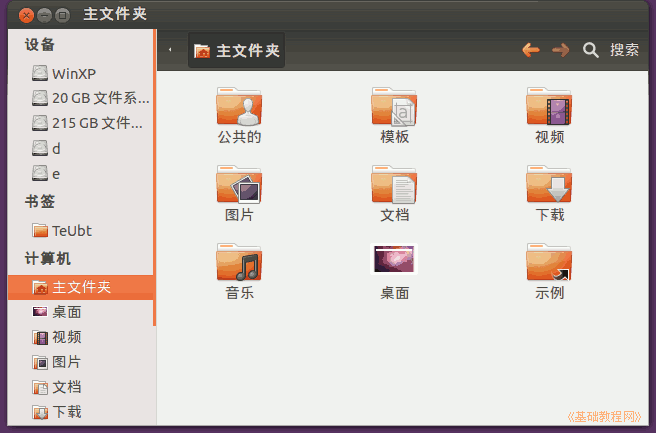
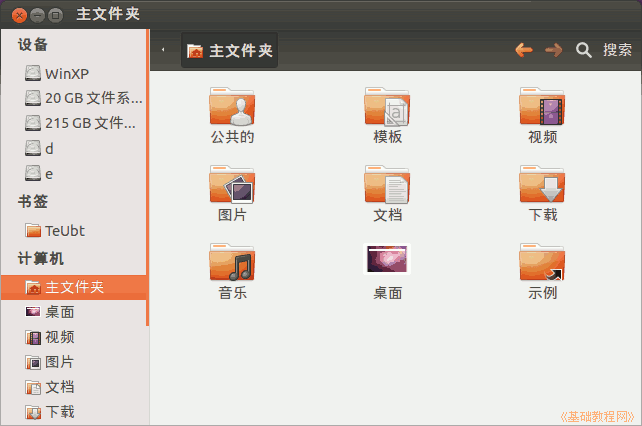
2012年 06月 15日 星期五 11:01:41 CST

diff --git a/linux/TeUbt/lesson30/lesson30.html b/linux/TeUbt/lesson30/lesson30.html
@@ -1,0 +1,95 @@
+<!DOCTYPE html PUBLIC "-//W3C//DTD XHTML 1.0 Transitional//EN" "http://www.w3.org/TR/xhtml1/DTD/xhtml1-transitional.dtd">
+<html dir="ltr" xmlns="http://www.w3.org/1999/xhtml" lang="zh-CN"><head>
+
+
+
+
+  <meta content="text/html; charset=UTF-8" http-equiv="content-type" />
+  <meta name="author" content="TeliuTe" />
+
+  <meta name="Copyright" content="TeliuTe,基础教程网" />
+  <meta name="description" content="TeliuTe系列教程之Ubuntu基础入门教程" />
+  <meta name="keywords" content="TeliuTe,Ubuntu,教程,基础,指南,入门" />
+
+  <link rel="stylesheet" href="../css/css.css" type="text/css" />
+  <link rel="Shortcut  Icon" href="../css/qcqy.ico" /><title>Ubuntu指南|文件管理器</title></head><body style="direction: ltr;">
+<p class="title">Ubuntu 入门操作指南</p>
+<p class="green">作者：TeliuTe　来源：基础教程网</p>
+<span class="tblue">三十、文件管理器</span>　<a href="../index.html">返回目录</a>　<a href="../lesson31/lesson31.html">下一课</a>
+<p>　文件管理器也叫文件浏览器，可以管理本地或网络中的文件和文件夹；</p>
+<p class="tblue">　1、文件管理器</p>
+<p>　1）点击主按钮，在搜索中输入nautilus <img src="images/a1icon.jpg" alt="a1icon.jpg" />，打开程序，或者依次点“主按钮、所有程序、过滤结果、附件、文件”；</p>
+<p>　<img src="images/a1win.png" alt="a1win.png" /></p>
+<p>　</p>
+<p>　2）左侧是位置列表，点击可以快速切换到相应的文件夹；</p>
+<p>　<img src="images/a2loca.png" alt="a2loca.png" /></p>
+<p>　</p>
+<p>　3）在一个文件夹上点右键，可以选择在“新标签中打开”；</p>
+<p>　<img src="images/a3tab.png" alt="a3tab.png" /></p>
+<p>　</p>
+<p>　4）点屏幕上边的菜单“转到－网络“，可以查看局域网中的其他计算机，也可以点左侧位置栏的“浏览网络”；</p>
+<p>　<img src="images/a4network.png" alt="a4network.png" /></p>
+<p>　</p>
+<p>　5）点上边的菜单“转到－位置”，在出来的地址栏中，可以输入FTP等网址；</p>
+<p>　<img src="images/a5ftp.png" alt="a5ftp.png" /></p>
+<p>　</p>
+<p>　6）点菜单“书签－添加书签”可以将当前位置保存到左侧位置列表，也可以在对话框中点加号；</p>
+<p>　<img src="images/a6book.png" alt="a6book.png" />　<img src="images/a6add.png" alt="a6add.png" /></p>
+<p>　</p>
+<p>　7）更多相关，请参阅：<a href="../lesson5/lesson5.html">第5课主文件夹</a></p>
+<p>　</p><p>　<span class="tblue">本节</span>学习了文件管理器的基础知识，如果你成功地完成了练习，请继续学习下一课内容；</p>
+<p><a href="../index.html">返回目录</a>　<a href="../lesson31/lesson31.html">下一课</a></p>
+<p class="green">本教程由86团学校TeliuTe制作|著作权所有</p>
+<p class="green">基础教程网：<a href="http://teliute.org/">http://teliute.org/</a></p>
+<p class="green">美丽的校园……</p>
+
+<p style="text-align: center;">转载和引用本站内容，请保留版权信息和本站链接。</p>
+
+<p><script language="javascript" type="text/javascript" src="http://js.users.51.la/201022.js">
+<noscript><a href="http://www.51.la/?201022" target="_blank"><img alt="我要啦免费统计" src="http://img.users.51.la/201022.asp" style="border: medium none ;" height="20" width="20" /></a> </noscript></p>
+
+<div>
+
+<script type="text/javascript"><!--
+google_ad_client = "pub-2989083345397211";
+google_ad_width = 728;
+google_ad_height = 90;
+google_ad_format = "728x90_as";
+google_ad_type = "text";
+//2007-09-15: new1
+google_ad_channel = "9381269263";
+google_ui_features = "rc:6";
+//-->
+</script>
+<script type="text/javascript" src="http://pagead2.googlesyndication.com/pagead/show_ads.js">
+</script>
+<br />
+<script type="text/javascript"><!--
+google_ad_client = "pub-2989083345397211";
+google_ad_width = 728;
+google_ad_height = 90;
+google_ad_format = "728x90_as";
+google_ad_type = "image";
+//2007-09-15: new1
+google_ad_channel = "9381269263";
+google_ui_features = "rc:6";
+//-->
+</script><script type="text/javascript" src="http://pagead2.googlesyndication.com/pagead/show_ads.js">
+</script>
+<br />
+<script type="text/javascript"><!--
+google_ad_client = "pub-2989083345397211";
+google_ad_width = 728;
+google_ad_height = 90;
+google_ad_format = "728x90_as";
+google_ad_type = "text";
+//2007-09-15: new1
+google_ad_channel = "9381269263";
+google_ui_features = "rc:6";
+//-->
+</script>
+<script type="text/javascript" src="http://pagead2.googlesyndication.com/pagead/show_ads.js">
+</script>
+
+
+</p></body></html>

diff --git a/linux/TeUbt/lesson/lesson3.html b/linux/TeUbt/lesson/lesson3.html
@@ -14,10 +14,10 @@
   <link rel="Shortcut  Icon" href="../css/qcqy.ico" /><title>Ubuntu指南|</title></head><body style="direction: ltr;">
 <p class="title">Ubuntu 入门操作指南</p>
 <p class="green">作者：TeliuTe　来源：基础教程网</p>
-<span class="tblue">二十、</span>　<a href="../index.html">返回目录</a>　<a href="../lesson2/lesson2.html">下一课</a>
+<span class="tblue">三十、</span>　<a href="../index.html">返回目录</a>　<a href="../lesson3/lesson3.html">下一课</a>
 <p>　；</p>
 <p class="tblue">　1、</p>
-<p>　1）点击主按钮，在搜索中输入，打开程序，或者依次点主按钮、所有程序、过滤结果、附件、；</p>
+<p>　1）点击主按钮，在搜索中输入 ，打开程序，或者依次点“主按钮、所有程序、过滤结果、附件、”；</p>
 <p>　</p>
 <p>　</p>
 <p>　2）；</p>
@@ -45,7 +45,7 @@
 <p>　</p>
 <p>　</p>
 <p>　<span class="tblue">本节</span>学习了的基础知识，如果你成功地完成了练习，请继续学习下一课内容；</p>
-<p><a href="../index.html">返回目录</a>　<a href="../lesson2/lesson2.html">下一课</a></p>
+<p><a href="../index.html">返回目录</a>　<a href="../lesson3/lesson3.html">下一课</a></p>
 <p class="green">本教程由86团学校TeliuTe制作|著作权所有</p>
 <p class="green">基础教程网：<a href="http://teliute.org/">http://teliute.org/</a></p>
 <p class="green">美丽的校园……</p>

diff --git a/linux/TeUbt/index.html b/linux/TeUbt/index.html
@@ -109,6 +109,9 @@
 <tr class="tblue">
 <td class="hg">第25课………………<a href="lesson25/lesson25.html">磁盘实用工具</a></td>
 </tr>
+    <tr>
+      <td>　</td>
+    </tr>
 <tr class="tblue">
 <td class="hg">第26课………………<a href="lesson26/lesson26.html">磁盘使用分析器</a></td>
 </tr>
@@ -121,6 +124,12 @@
 <tr class="tblue">
 <td class="hg">第29课………………<a href="lesson29/lesson29.html">归档管理器</a></td>
 </tr>
+<tr class="tblue">
+<td class="hg">第30课………………<a href="lesson30/lesson30.html">文件浏览器</a></td>
+</tr>
+    <tr>
+      <td>　</td>
+    </tr>
 <tr>
 <td class="hg"><a href="help.html">帮助</a>　<a href="http://teliute.org/sort.html">在线课堂</a>　<a href="http://teliute.org/">基础教程网</a></td>
 </tr>
